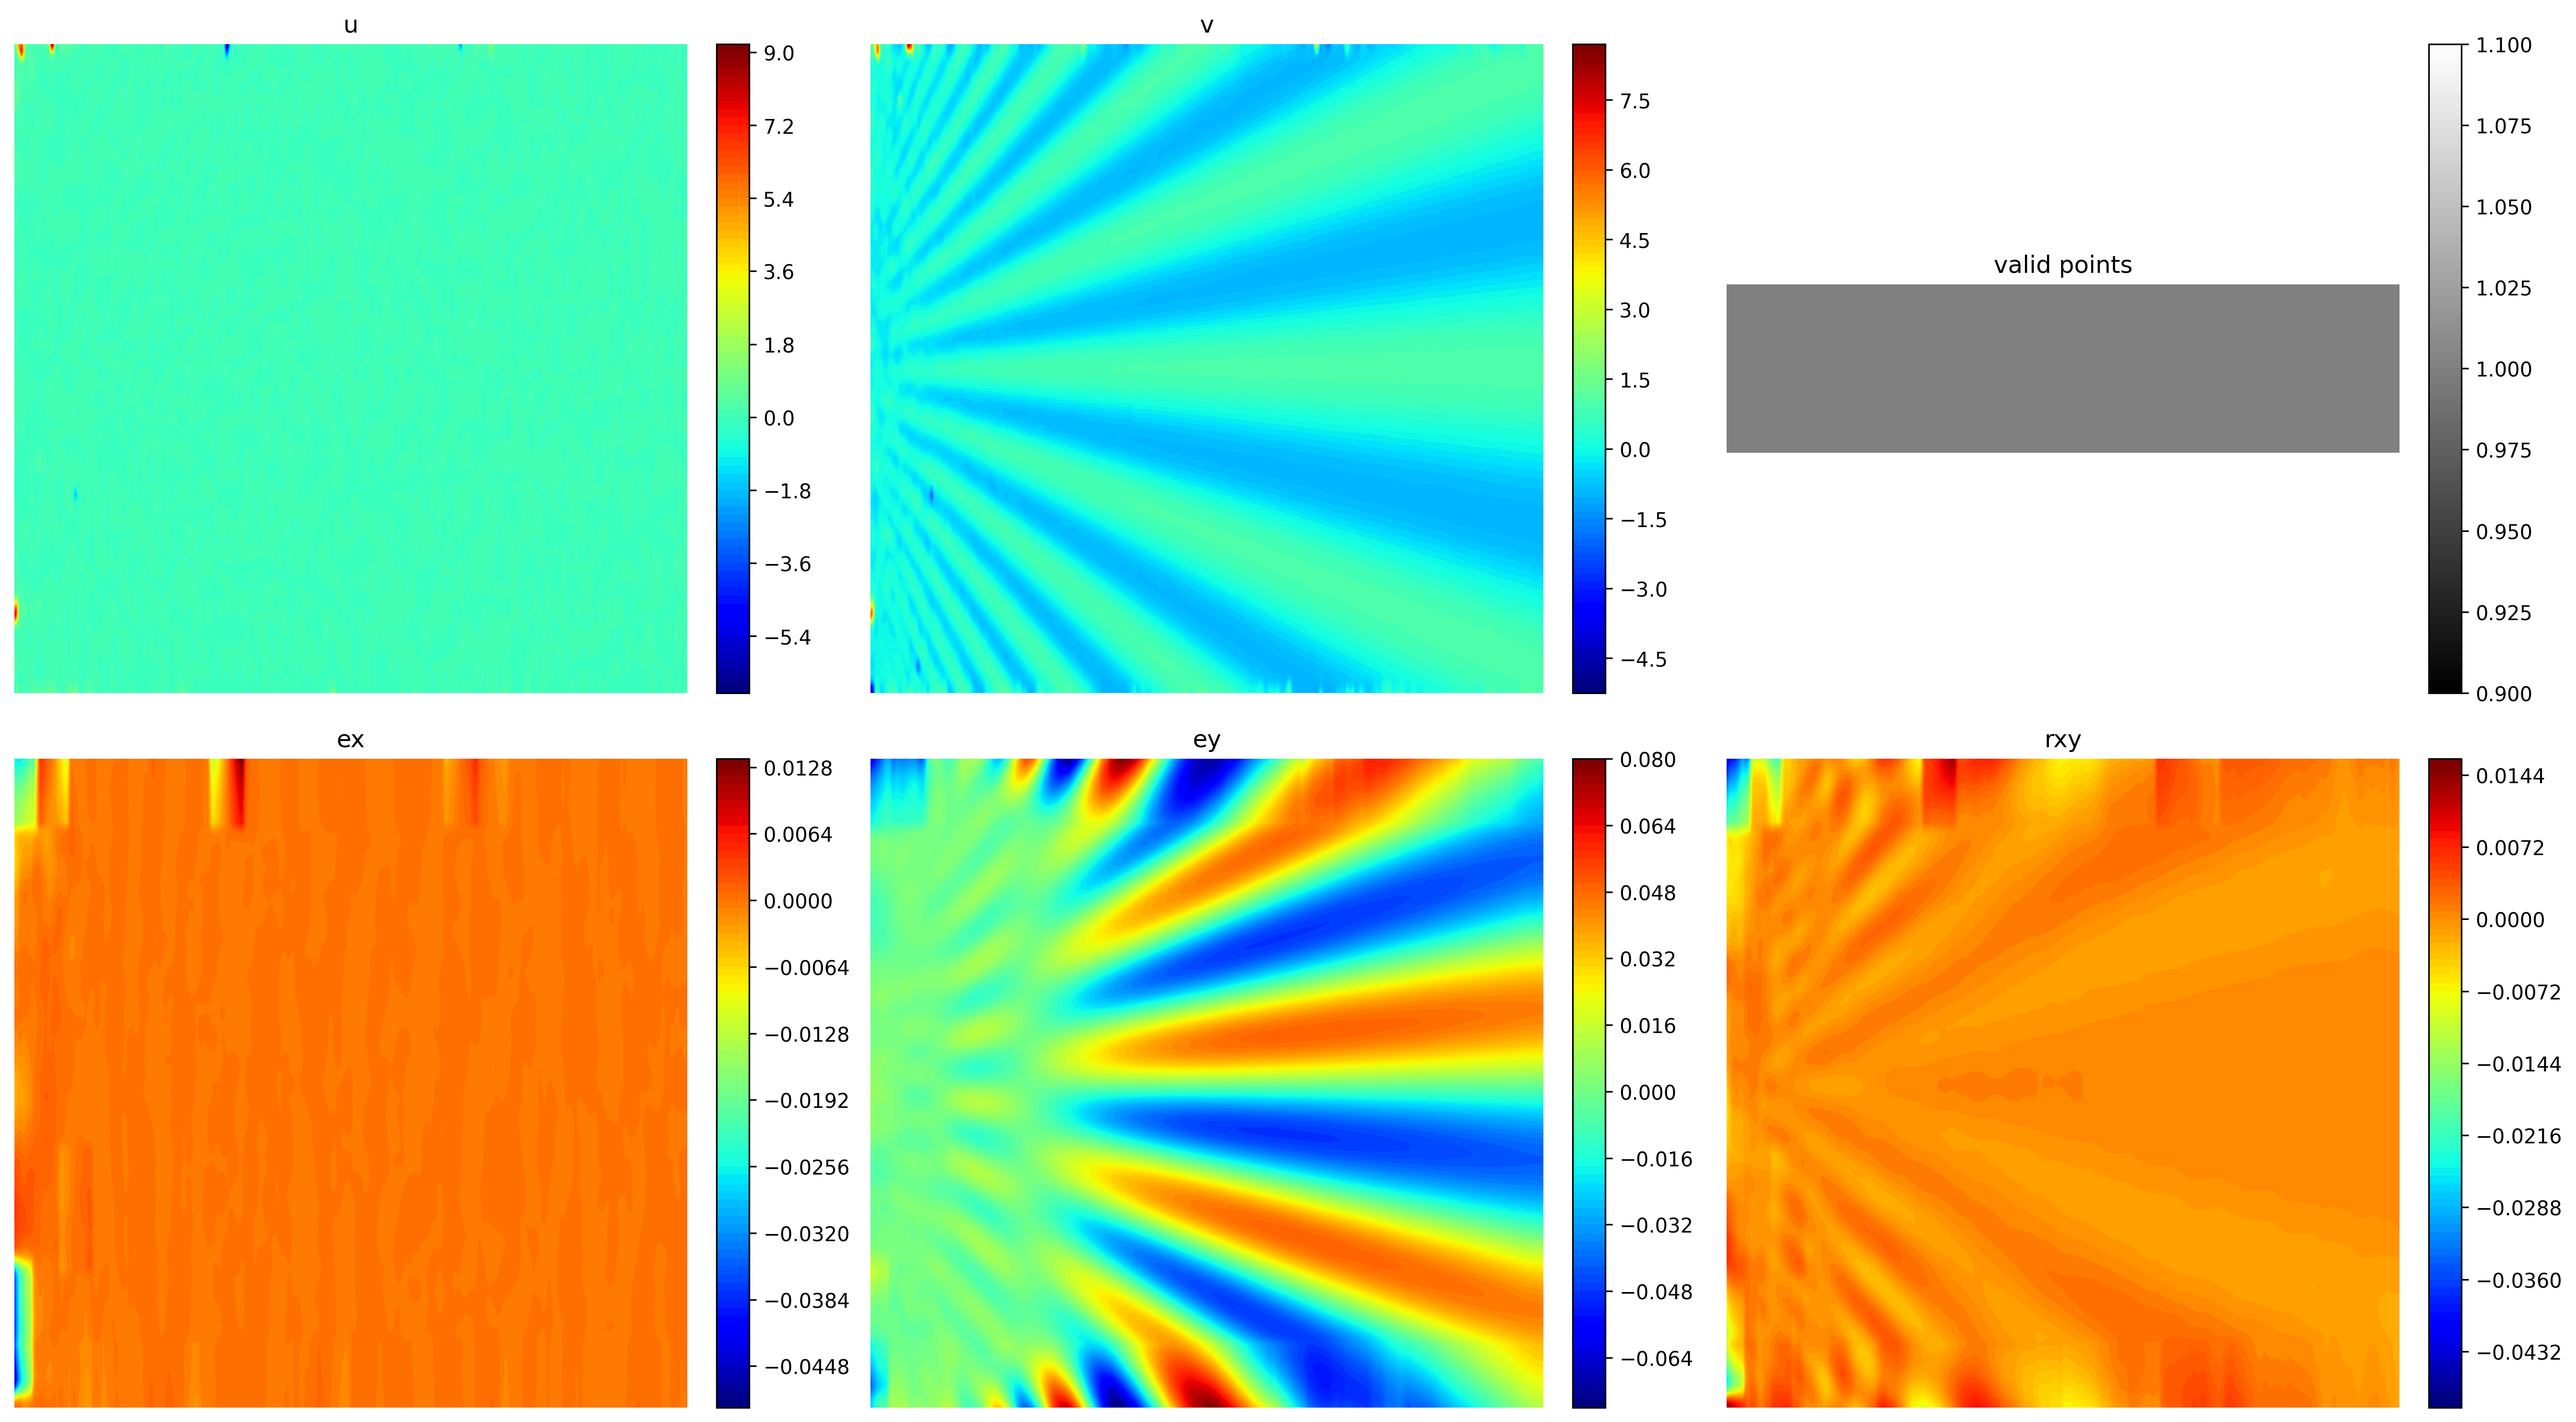
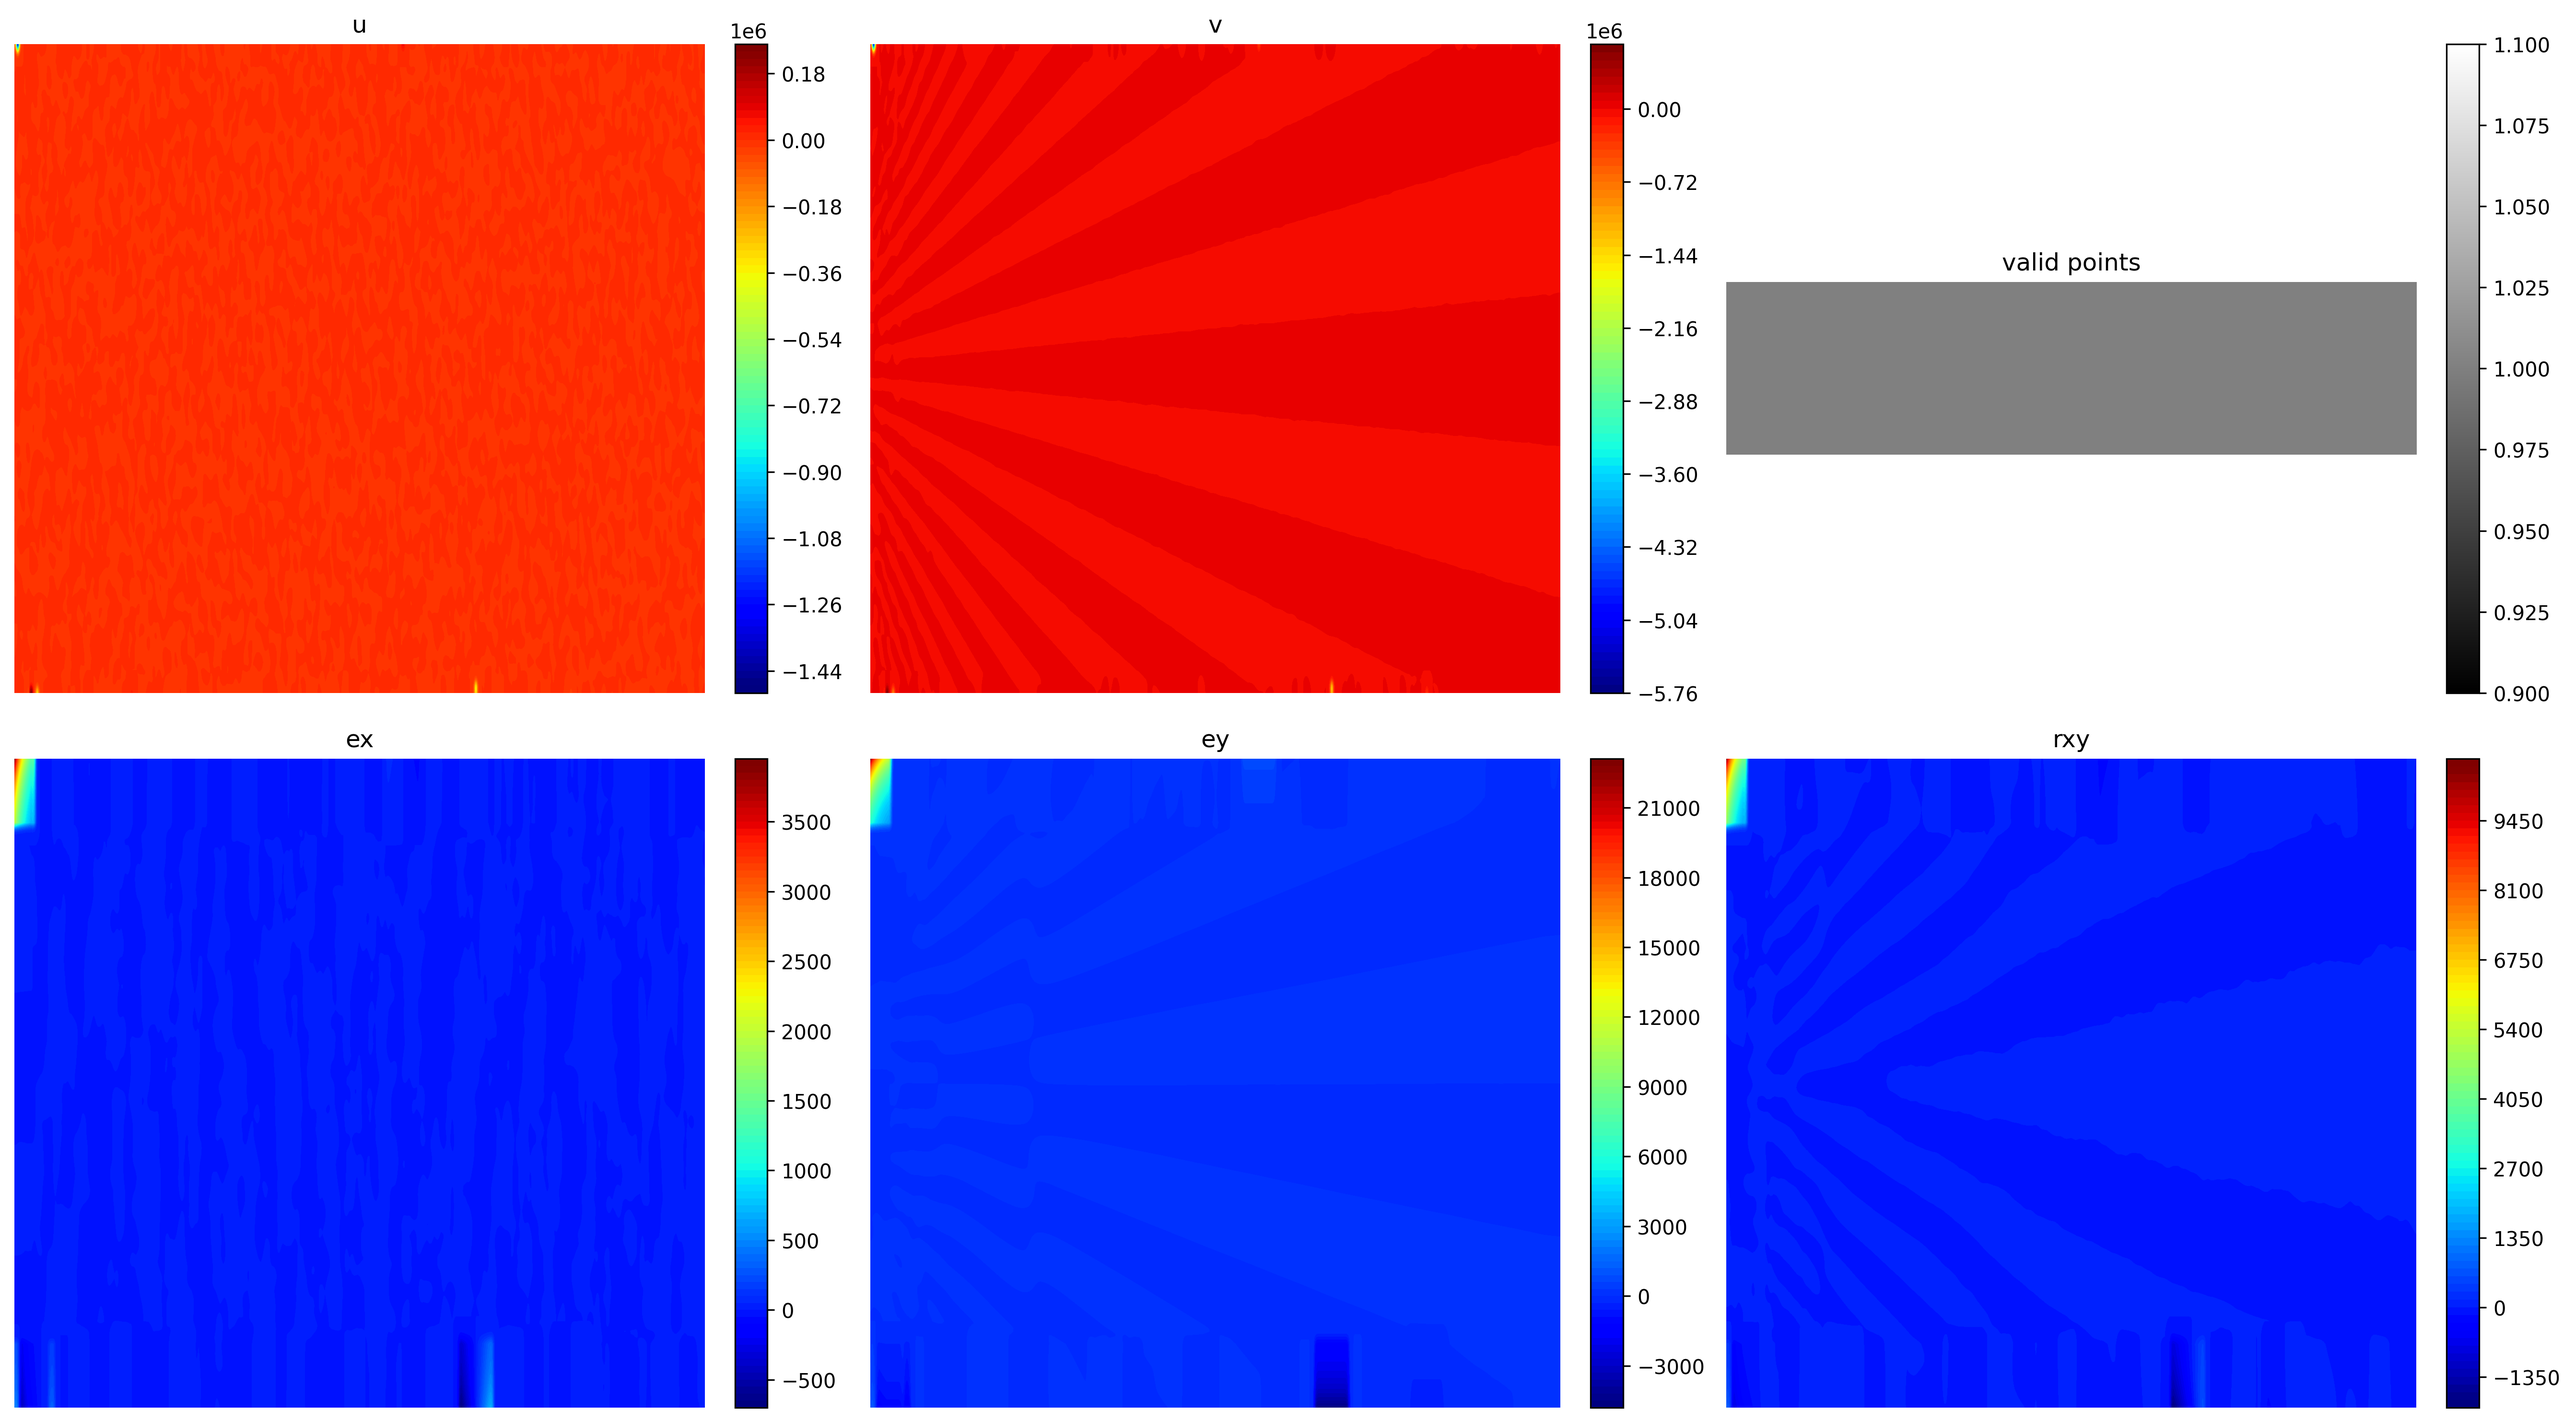
test 2

diff --git a/DIC_icgn_newton.py b/DIC_icgn_newton.py
@@ -36,45 +36,103 @@ def interpqbs(xs, ys, REF_FLAG=False, DEF_FLAG=False):
     return values
 
 
+def construct_w_matrix(defvector):
+    # Translation
+    u, v = defvector[0], defvector[1]
+    # First-order derivatives (affine terms)
+    ux, vx, uy, vy = defvector[2], defvector[3], defvector[4], defvector[5]
+    # Second-order derivatives
+    uxx, vxx, uxy, vxy, uyy, vyy = \
+        defvector[6], defvector[7], defvector[8], defvector[9], defvector[10], defvector[11]
+    
+    # S1–S6 (u-related)
+    S1  = 2*ux + ux**2 + u*uxx
+    S2  = 2*u*uxy + 2*(1 + ux)*uy
+    S3  = uy**2 + u*uyy
+    S4  = 2*u*(1 + ux)
+    S5  = 2*u*uy
+    S6  = u**2
+
+    # S7–S12 (u–v coupling)
+    S7  = 0.5*(v*uxx + 2*(1 + ux)*vx + u*vxx)
+    S8  = uy*vx + ux*vy + v*uxy + u*vxy + vy + ux
+    S9  = 0.5*(v*uyy + 2*uy*(1 + vy) + u*vyy)
+    S10 = v + v*ux + u*vx
+    S11 = u + v*uy + u*vy
+    S12 = u*v
+
+    # S13–S18 (v-related)
+    S13 = vx**2 + v*vxx
+    S14 = 2*v*vxy + 2*vx*(1 + vy)
+    S15 = 2*vy + vy**2 + v*vyy
+    S16 = 2*v*vx
+    S17 = 2*v*(1 + vy)
+    S18 = v**2
+
+    
+    
+    # ------ A ------
+    A =  np.array([
+        [1+S1,        S2,       S3],
+        [S7,        1+S8,       S9],
+        [S13,        S14,       1+S15]
+    ])
+    # ------ B ------
+    B =  np.array([
+        [S4,        S5,       S6],
+        [S10,       S11,      S12],
+        [S16,       S17,      S18]
+    ])
+    # ------ C ------
+    C = np.array([
+        [0.5*uxx,  uxy,     0.5*uyy],
+        [0.5*vxx,  vxy,     0.5*vyy],
+        [0,        0,       0]
+    ])
+    # ------ D ------
+    D = np.array([
+        [1+ux,     uy,      u],
+        [vx,       1+vy,    v],
+        [0,        0,       1]
+    ])
+    # C_add = np.array([
+    #     [0,         2*u,        0],
+    #     [0,         v,          u],
+    #     [0,         0,          2*v]
+    # ])
+    # D_add = np.array([
+    #     [2*ux,      2*uy,        0],
+    #     [vx,        ux+vy,       uy],
+    #     [0,         2*vx,        2*vy]
+    # ])
+    
+    # C = C + C_add
+    # D = D + D_add
+    
+    top = np.hstack((A, B))
+    bottom = np.hstack((C, D))
+    W = np.vstack((top, bottom))
+    return W
+
+
 # -------------------------
 # Inverse compositional update 
 # -------------------------
-def inverse_compositional_update_2nd_order(defvector_old, delta_def):
-    # Translation
-    U, V = defvector_old[0], defvector_old[1]
-    du, dv = delta_def[0], delta_def[1]
-
-    # First-order derivatives (affine terms)
-    dudx, dvdx, dudy, dvdy = defvector_old[2], defvector_old[3], defvector_old[4], defvector_old[5]
-    d_dudx, d_dvdx, d_dudy, d_dvdy = delta_def[2], delta_def[3], delta_def[4], delta_def[5]
-
-    # First-order affine matrices
-    M_old = np.array([
-        [1 + dudx, dudy, U],
-        [dvdx, 1 + dvdy, V],
-        [0, 0, 1]
-    ])
-    
-    M_delta = np.array([
-        [1 + d_dudx, d_dudy, du],
-        [d_dvdx, 1 + d_dvdy, dv],
-        [0, 0, 1]
-    ])
+def inverse_compositional_update_2nd_order(defvector_old, defvector_delta):
+    W_old = construct_w_matrix(defvector_old)
+    W_delta = construct_w_matrix(defvector_delta)
     
     # Inverse compositional for first-order
-    M_new = M_old @ np.linalg.inv(M_delta)
+    W_new = W_old @ np.linalg.inv(W_delta)
     
     # Updated first-order parameters
-    dudx_new = M_new[0,0] - 1
-    dudy_new = M_new[0,1]
-    U_new = M_new[0,2]
-    
-    dvdx_new = M_new[1,0]
-    dvdy_new = M_new[1,1] - 1
-    V_new = M_new[1,2]
+    u, v = W_new[3,5], W_new[4,5]
+    ux, vx, uy, vy = W_new[3,3]-1, W_new[4,3], W_new[3,4], W_new[4,4]-1
+    uxx, vxx, uxy, vxy, uyy, vyy = \
+         W_new[3,0]*2, W_new[4,0]*2, W_new[3,1], W_new[4,1], W_new[3,2]*2, W_new[4,2]*2
     
     defvector_new = np.array([
-        U_new, V_new, dudx_new, dvdx_new, dudy_new, dvdy_new
+        u, v, ux, vx, uy, vy, uxx, vxx, uxy, vxy, uyy, vyy
     ])
     
     return defvector_new
@@ -103,7 +161,7 @@ def iterativesearch(
         return FAILED, defvector_init, -1
     else:
         deltaf_inv = 1 / deltaf_inv
-        df_dp_buffer = np.zeros((len(f_buffer), 6), dtype=np.float32)
+        df_dp_buffer = np.zeros((len(f_buffer), 12), dtype=np.float32)
         df_dx = BufferManager.fx[Y_valid_corrd, X_valid_corrd]
         df_dy = BufferManager.fy[Y_valid_corrd, X_valid_corrd]
         df_dp_buffer[:, 0] = df_dx
@@ -113,6 +171,13 @@ def iterativesearch(
         np.multiply(dx, df_dy, out=df_dp_buffer[:, 3])   # X * fy
         np.multiply(dy, df_dx, out=df_dp_buffer[:, 4])   # Y * fx
         np.multiply(dy, df_dy, out=df_dp_buffer[:, 5])   # Y * fy
+        # squared terms
+        np.multiply(dx * dx * 0.5, df_dx, out=df_dp_buffer[:, 6])  # 0.5 X^2 * fx
+        np.multiply(dx * dx * 0.5, df_dy, out=df_dp_buffer[:, 7])  # 0.5 X^2 * fy
+        np.multiply(dx * dy, df_dx, out=df_dp_buffer[:, 8])        # X * Y * fx
+        np.multiply(dx * dy, df_dy, out=df_dp_buffer[:, 9])        # X * Y * fy
+        np.multiply(dy * dy * 0.5, df_dx, out=df_dp_buffer[:, 10]) # 0.5 Y^2 * fx
+        np.multiply(dy * dy * 0.5, df_dy, out=df_dp_buffer[:, 11]) # 0.5 Y^2 * fy
         # compute Hessian
         hessian_gn = df_dp_buffer.T @ df_dp_buffer
         hessian_gn = hessian_gn * 2 * (deltaf_inv**2)
@@ -161,16 +226,12 @@ def newton(
     cholesky_G: np.ndarray
 ) -> Tuple[int, np.ndarray, float]:
     
-    u = (defvector_init[0] +
-         defvector_init[2] * dx +
-         defvector_init[4] * dy)
-
-    v = (defvector_init[1] +
-         defvector_init[3] * dx +
-         defvector_init[5] * dy)
+    W = construct_w_matrix(defvector_init)
+    dX = np.column_stack([dx**2, dx*dy, dy**2, dx, dy, np.ones_like(dx)])
+    dX_tilida = np.einsum('ij,nj->ni', W, dX)
     
-    X_tilda_corrd = xc + dx + u
-    Y_tilda_corrd = yc + dy + v
+    X_tilda_corrd = xc + dX_tilida[:, 3]
+    Y_tilda_corrd = yc + dX_tilida[:, 4]
     try:
         g_buffer = interpqbs(X_tilda_corrd, Y_tilda_corrd, REF_FLAG=False, DEF_FLAG=True)
     except:

diff --git a/DIC_cal_seed.py b/DIC_cal_seed.py
@@ -128,7 +128,7 @@ def cal_seed_point(
     mask_pad = BufferManager.mask_pad[mask_idx]
     
     v0, u0 = coarse_search_int(cy, cx, mask, subset_r, search_radius)
-    defvector_init = np.zeros(6)
+    defvector_init = np.zeros(12)
     defvector_init[0], defvector_init[1] = u0, v0
     
     py = cy + subset_r
@@ -191,6 +191,7 @@ if __name__ == "__main__":
     from scipy.io import savemat
     import time
 
+
     cfg = load_dic_config("./config.json")
     imgGenDataset = Img_Dataset(cfg)
     imgGenDataset._get_QK_QKdx_QKdxx()
@@ -217,8 +218,9 @@ if __name__ == "__main__":
     Y_flat = yv.reshape(-1)
     
     for idx, DimageL in enumerate(img_loader):
+        cy, cx = 0, 6
         flag, defvector, corrcoef = cal_seed_point(
-                cy=249, cx=1023,
+                cy=cy, cx=cx,
                 X_flat=X_flat,
                 Y_flat=Y_flat,
                 subset_r=subset_r,
@@ -227,6 +229,6 @@ if __name__ == "__main__":
                 cutoff_diffnorm=cutoff_diffnorm,
                 lambda_reg=lambda_reg
             )
-        
+        print(f"({cx},{cy}) flag={flag}: {defvector[:2]}, Ncc[{corrcoef}]")
     
 

diff --git a/DIC_main_solve.py b/DIC_main_solve.py
@@ -151,11 +151,17 @@ def analysis_queue(queue, seed_info, pbar, pbar_lock, stop_event):
             dx, dy = x - cx, y - cy
             u = (defvector[0] +
                 defvector[2] * dx +
-                defvector[4] * dy)
+                defvector[4] * dy +
+                0.5 * defvector[6] * dx * dx +
+                defvector[8] * dx * dy +
+                0.5 * defvector[10] * dy * dy)
             defvector[0] = u
             v = (defvector[1] +
                 defvector[3] * dx +
-                defvector[5] * dy)
+                defvector[5] * dy +
+                0.5 * defvector[7] * dx * dx +
+                defvector[9] * dx * dy +
+                0.5 * defvector[11] * dy * dy)
             defvector[1] = v
             analyzepoint(
                 queue=queue, x=x, y=y, 

diff --git a/case/star/Subset/plot_star.m b/case/star/Subset/plot_star.m
@@ -9,7 +9,7 @@ figure(1)
 [M, N] = size(DIC_result.plot_v);
 set(gcf, 'Units', 'pixels', 'Position', [100 100 N M]);
 
-alpha_channel = DIC_result.plot_validpoints * 255;
+alpha_channel = DIC_result.plot_calcpoints * 255;
 
 h1 = imagesc(DIC_result.plot_v);
 colormap jet;
